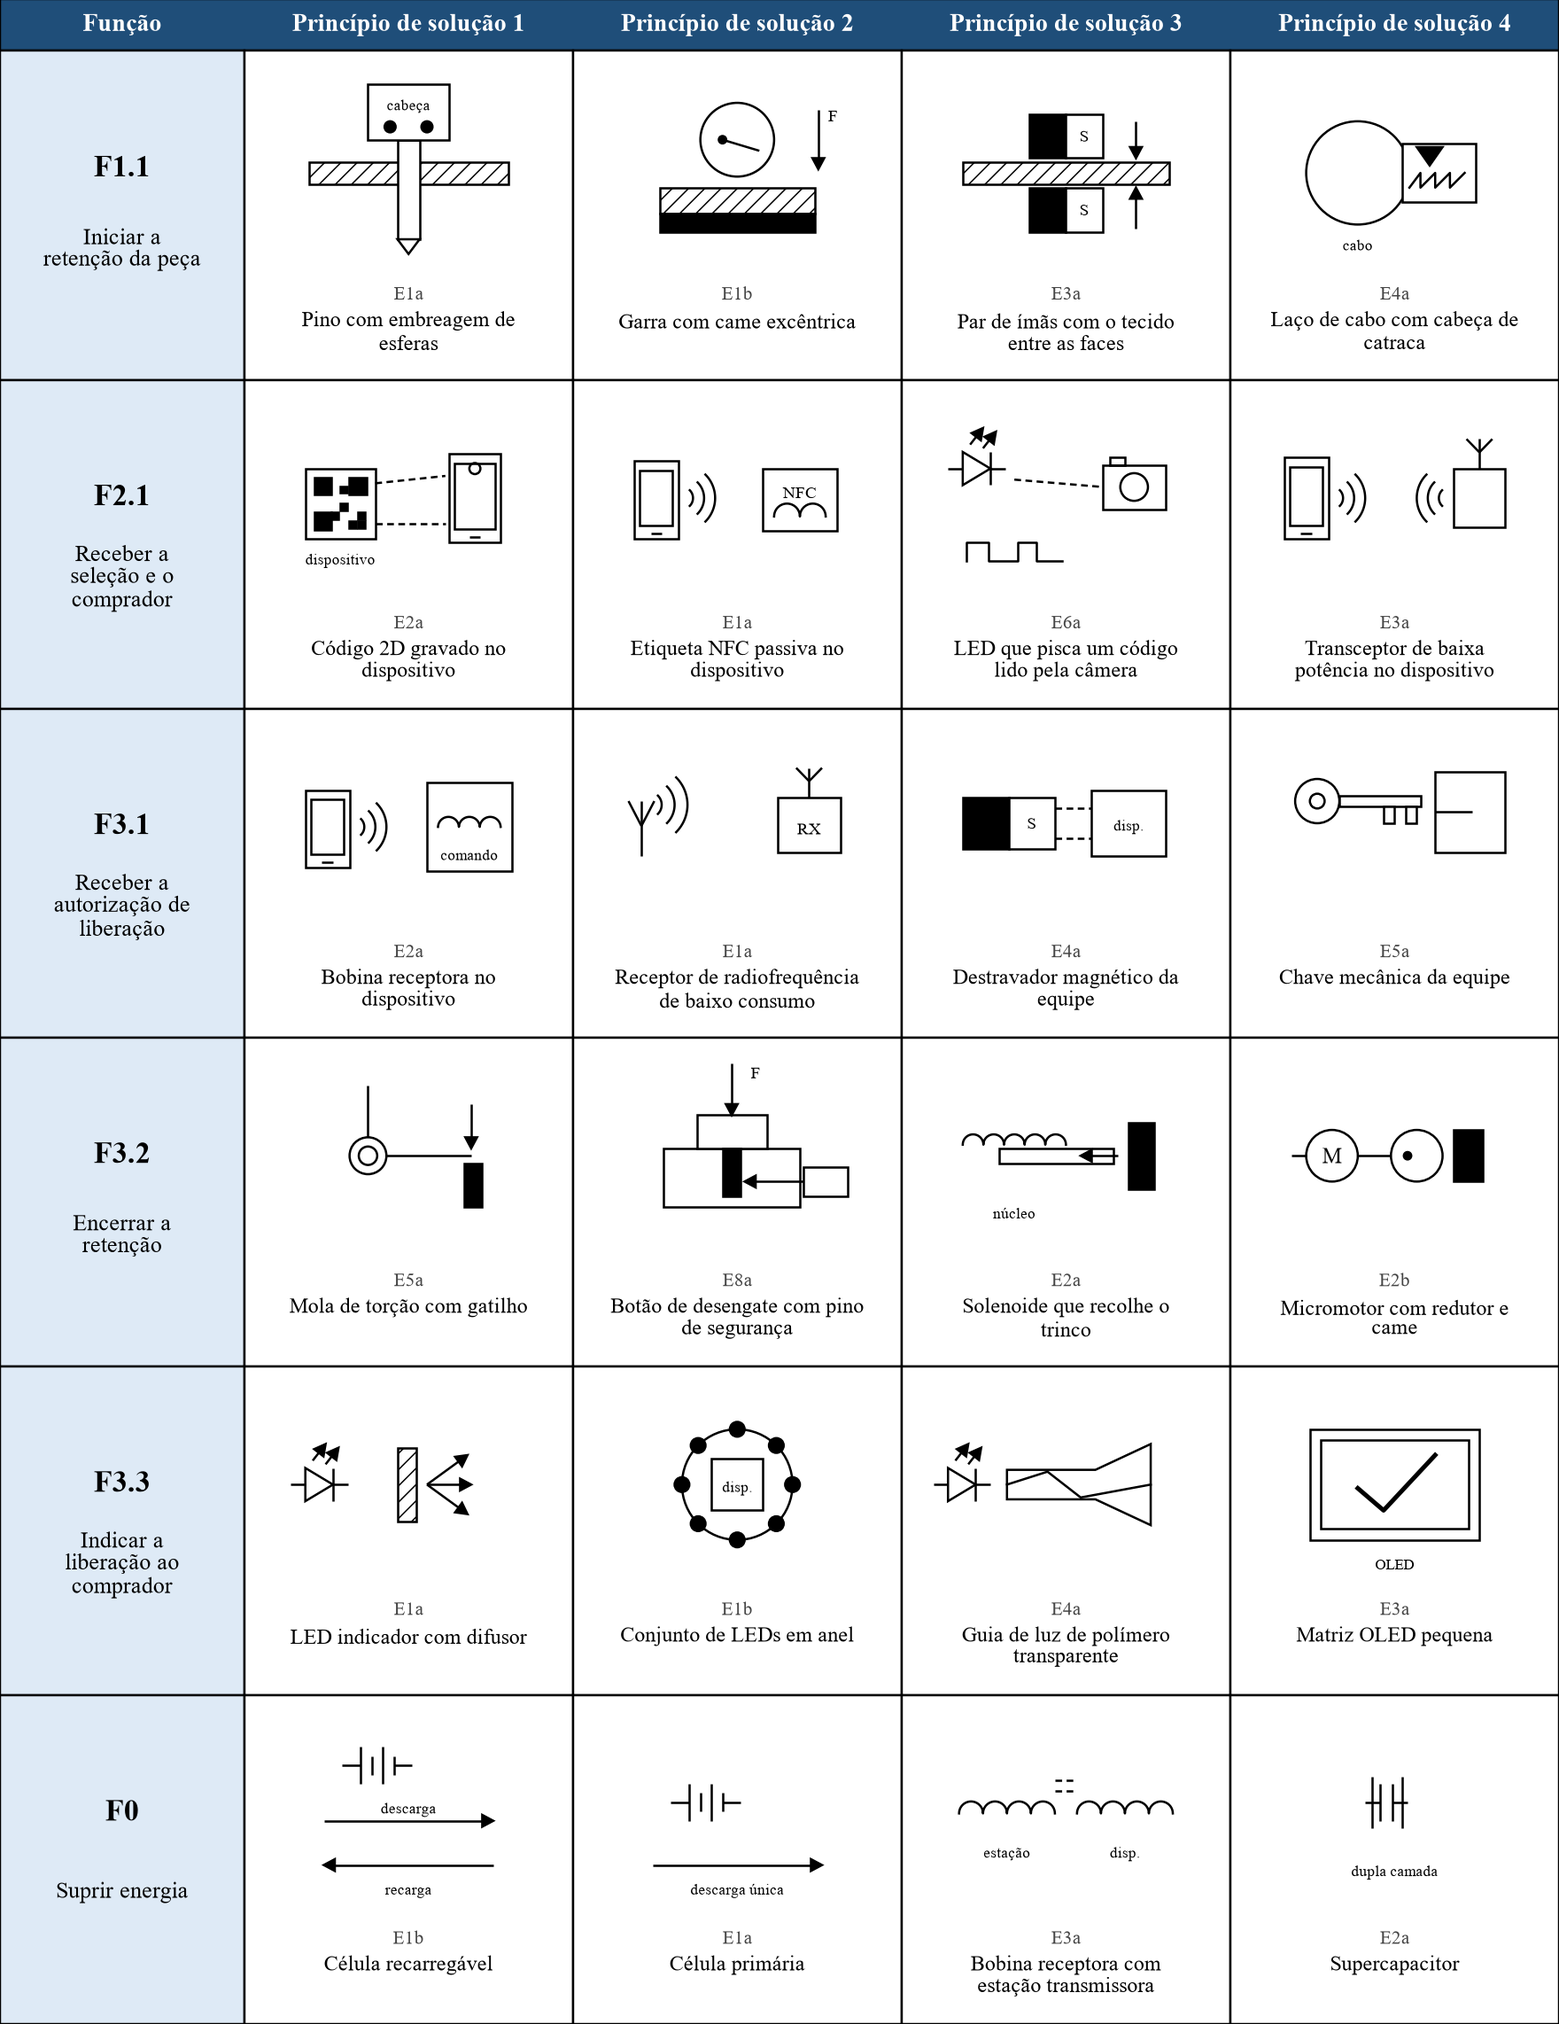
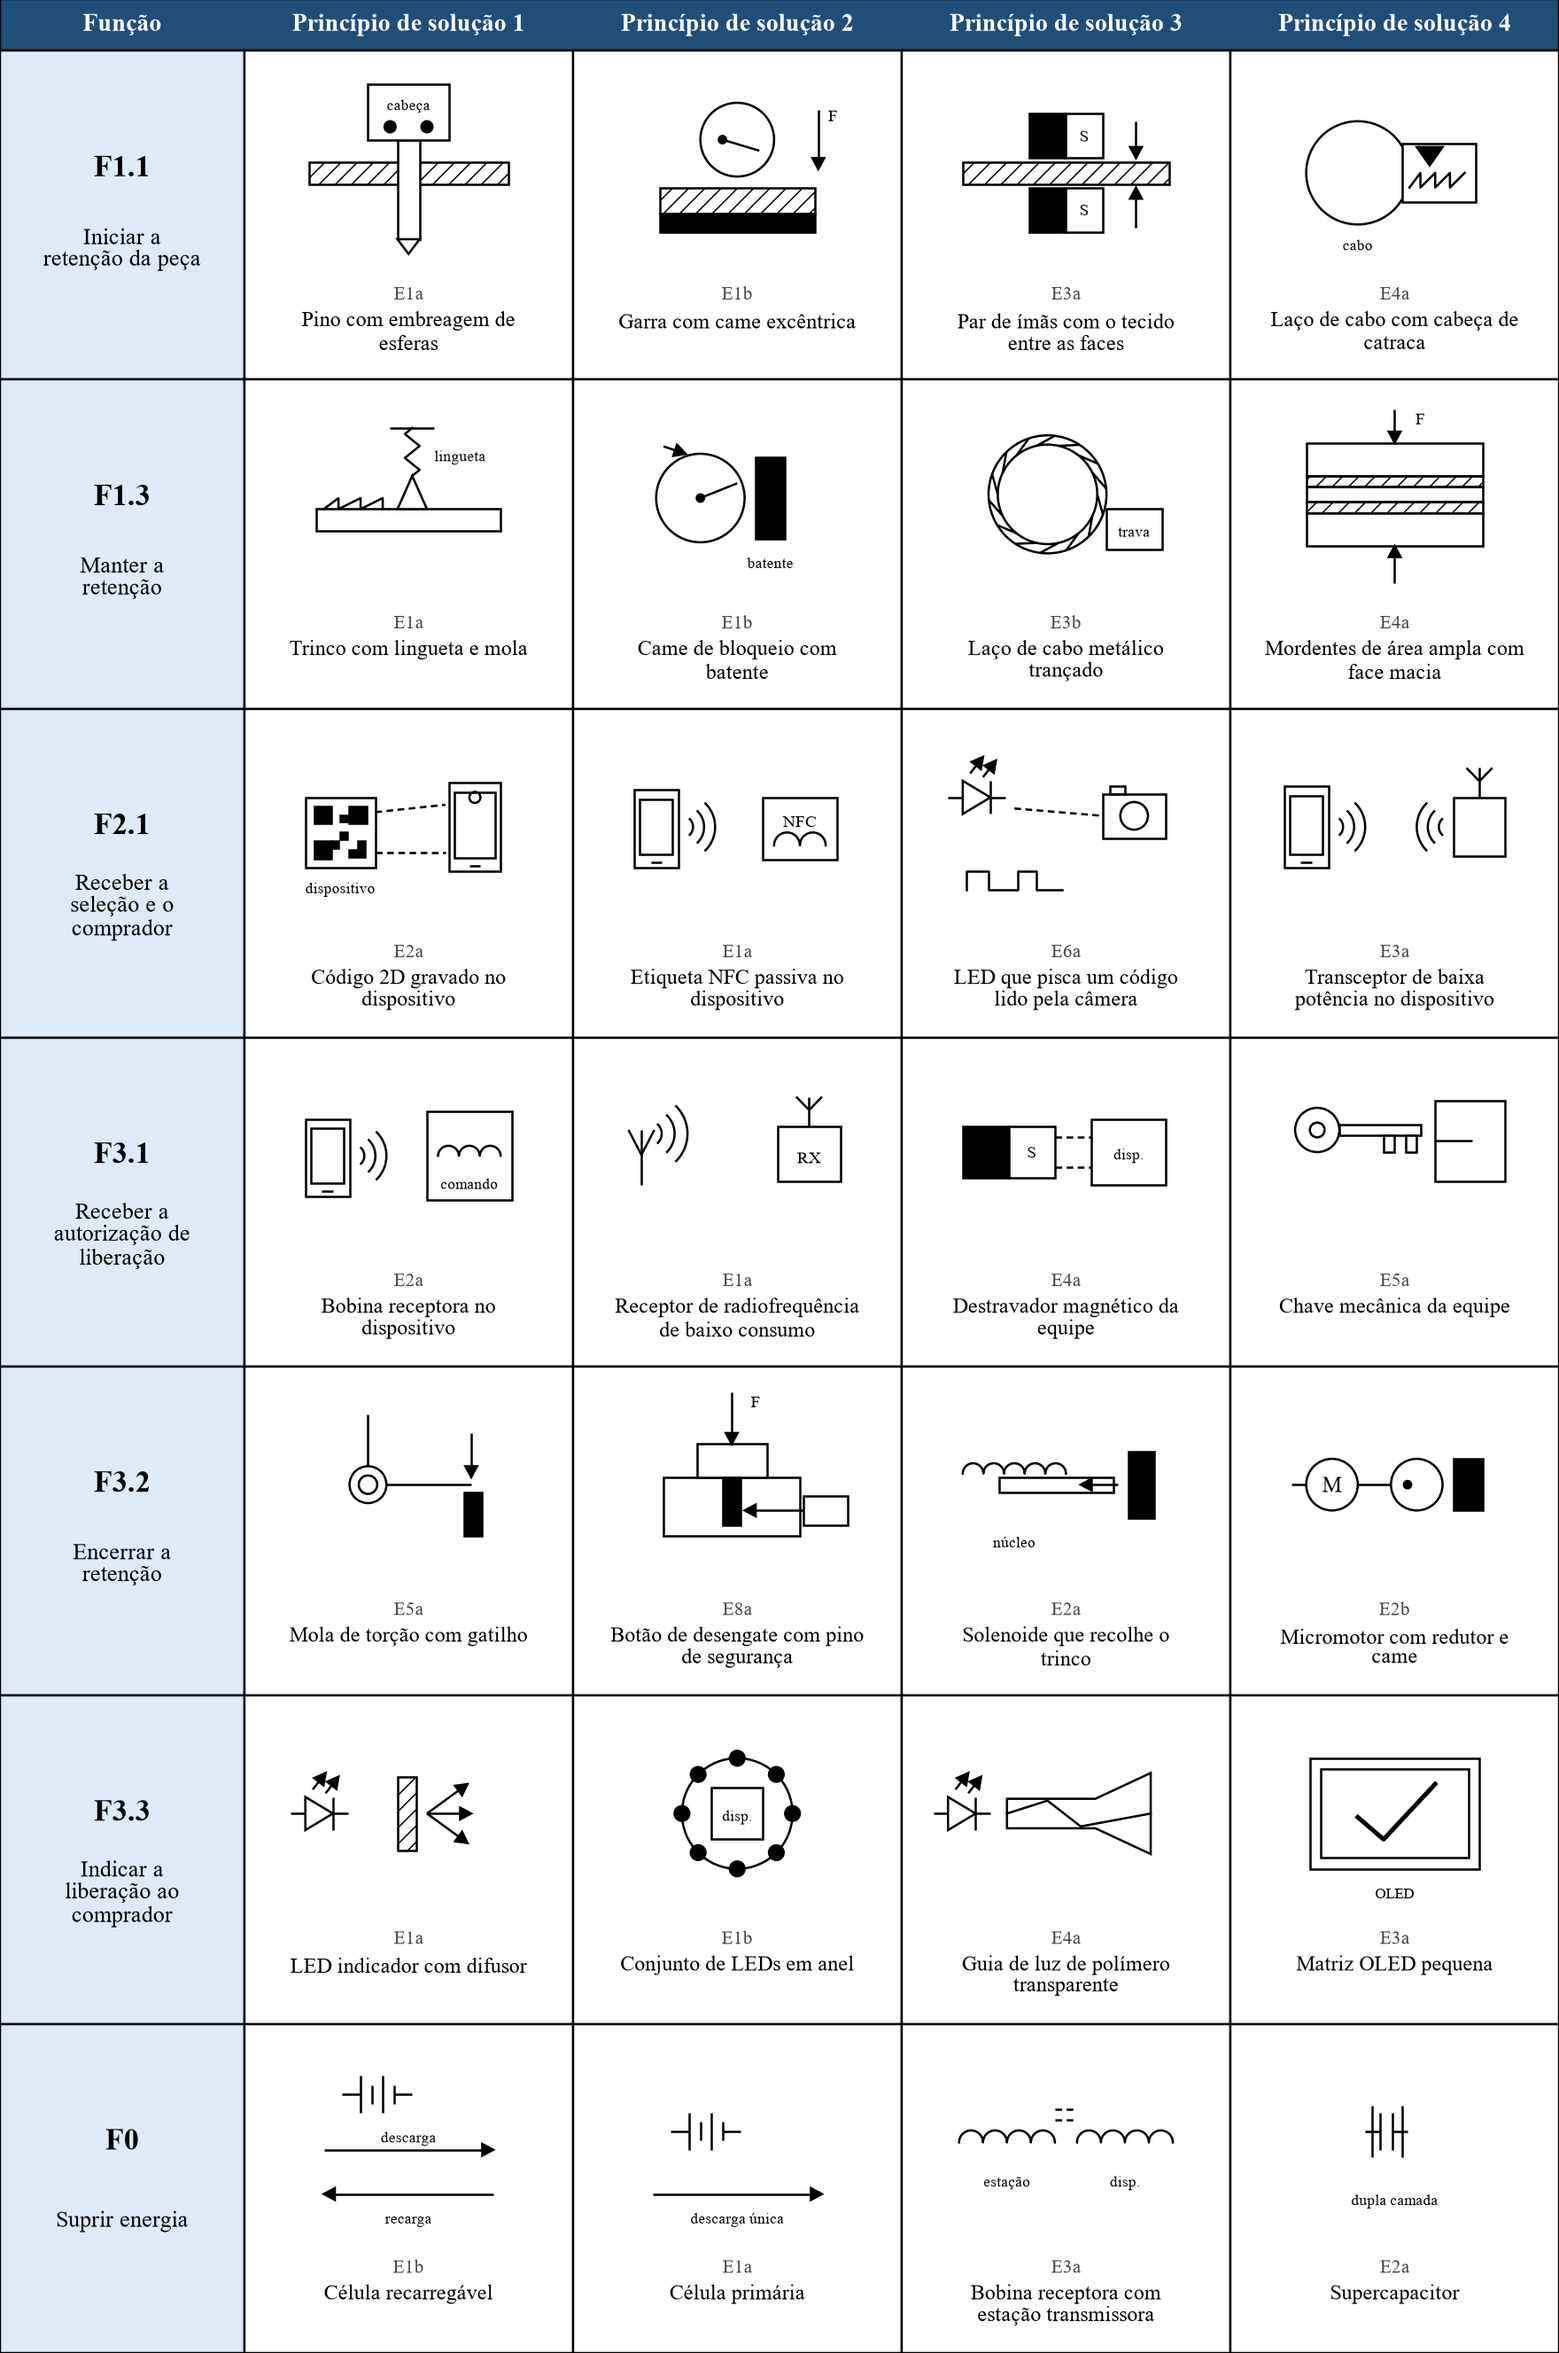
Matriz morfologica com sete funcoes: inclui manter a retencao

diff --git a/2-conteudo/14-reformulacao_dos_desenhos_iniciais.tex b/2-conteudo/14-reformulacao_dos_desenhos_iniciais.tex
@@ -6,16 +6,16 @@ A reformulação seguiu o procedimento de \citeonline{rozenfeld2006gestao} para 
 \subsection{Matriz morfológica}
 \label{subsec:reform_matriz}
 
-A matriz morfológica dispõe as funções nas linhas e os princípios de solução nas colunas, e cada caminho que liga um princípio por linha forma uma alternativa de concepção \cite{rozenfeld2006gestao}. Como o procedimento recomenda trabalhar com até dez funções, a equipe levou à matriz as seis em que a Galeria apontou mais de um princípio viável (Figura~\ref{fig:reform_matriz}). As outras doze ficaram fora da matriz por dois motivos. Parte delas, como comparar a peça com a transação e registrar o vínculo, depende de onde a função será executada (no dispositivo, na loja ou no servidor), decisão de arquitetura que não altera a forma do dispositivo. Outra parte, como informar o estado da peça ao antifurto existente, depende de informações que a Riachuelo ainda não forneceu. Nessas funções, a equipe adotou o princípio da Tabela~\ref{tab:aprov_sintese} em todas as alternativas.
+A matriz morfológica dispõe as funções nas linhas e os princípios de solução nas colunas, e cada caminho que liga um princípio por linha forma uma alternativa de concepção \cite{rozenfeld2006gestao}. Como o procedimento recomenda trabalhar com até dez funções, a equipe levou à matriz as sete que definem a forma do dispositivo e em que a Galeria apontou mais de um princípio viável (Figura~\ref{fig:reform_matriz}). As outras onze ficaram fora da matriz por dois motivos. Parte delas, como comparar a peça com a transação e registrar o vínculo, depende de onde a função será executada (no dispositivo, na loja ou no servidor), decisão de arquitetura que não altera a forma do dispositivo. Outra parte, como informar o estado da peça ao antifurto existente, depende de informações que a Riachuelo ainda não forneceu. Nessas funções, a equipe adotou o princípio da Tabela~\ref{tab:aprov_sintese} em todas as alternativas.
 
 \begin{figure}[p]
     \centering
-    \caption{Matriz morfológica das seis funções com mais de um princípio de solução viável}
-    \includegraphics[width=\textwidth]{imagens/reformulacao_desenhos/matriz_morfologica.png}
+    \caption{Matriz morfológica das sete funções com mais de um princípio de solução viável}
+    \includegraphics[width=0.88\textwidth]{imagens/reformulacao_desenhos/matriz_morfologica.png}
     \label{fig:reform_matriz}
     \source{Elaborado pelos autores (2026), a partir dos cartões da Galeria.}
 \end{figure}
 
-Cada linha reúne quatro princípios, identificados pelo código do cartão de origem. Dos 24 princípios, 18 foram avaliados como consistentes na Galeria e seis ficaram a aprofundar, três deles marcados para explorar. Nenhum portador avaliado como problema entrou na matriz. Os princípios de uma mesma linha estão no mesmo nível de generalidade, e nenhum deles fixa material ou dimensão.
+Cada linha reúne quatro princípios, identificados pelo código do cartão de origem. Dos 28 princípios, 22 foram avaliados como consistentes na Galeria e seis ficaram a aprofundar, dois deles marcados para explorar. Nenhum portador avaliado como problema entrou na matriz. Os princípios de uma mesma linha estão no mesmo nível de generalidade, e nenhum deles fixa material ou dimensão.
 
 As dependências registradas na Galeria restringem as combinações. A mola com gatilho e o botão com pino de segurança pedem um atuador pequeno, o que os torna compatíveis com a célula de menor capacidade. O solenoide e o micromotor consomem mais em cada acionamento e pedem a célula recarregável ou o supercapacitor. O destravador magnético e a chave mecânica dependem de um funcionário, e por isso servem como via de liberação da equipe, combinada com um dos outros dois princípios da linha.
